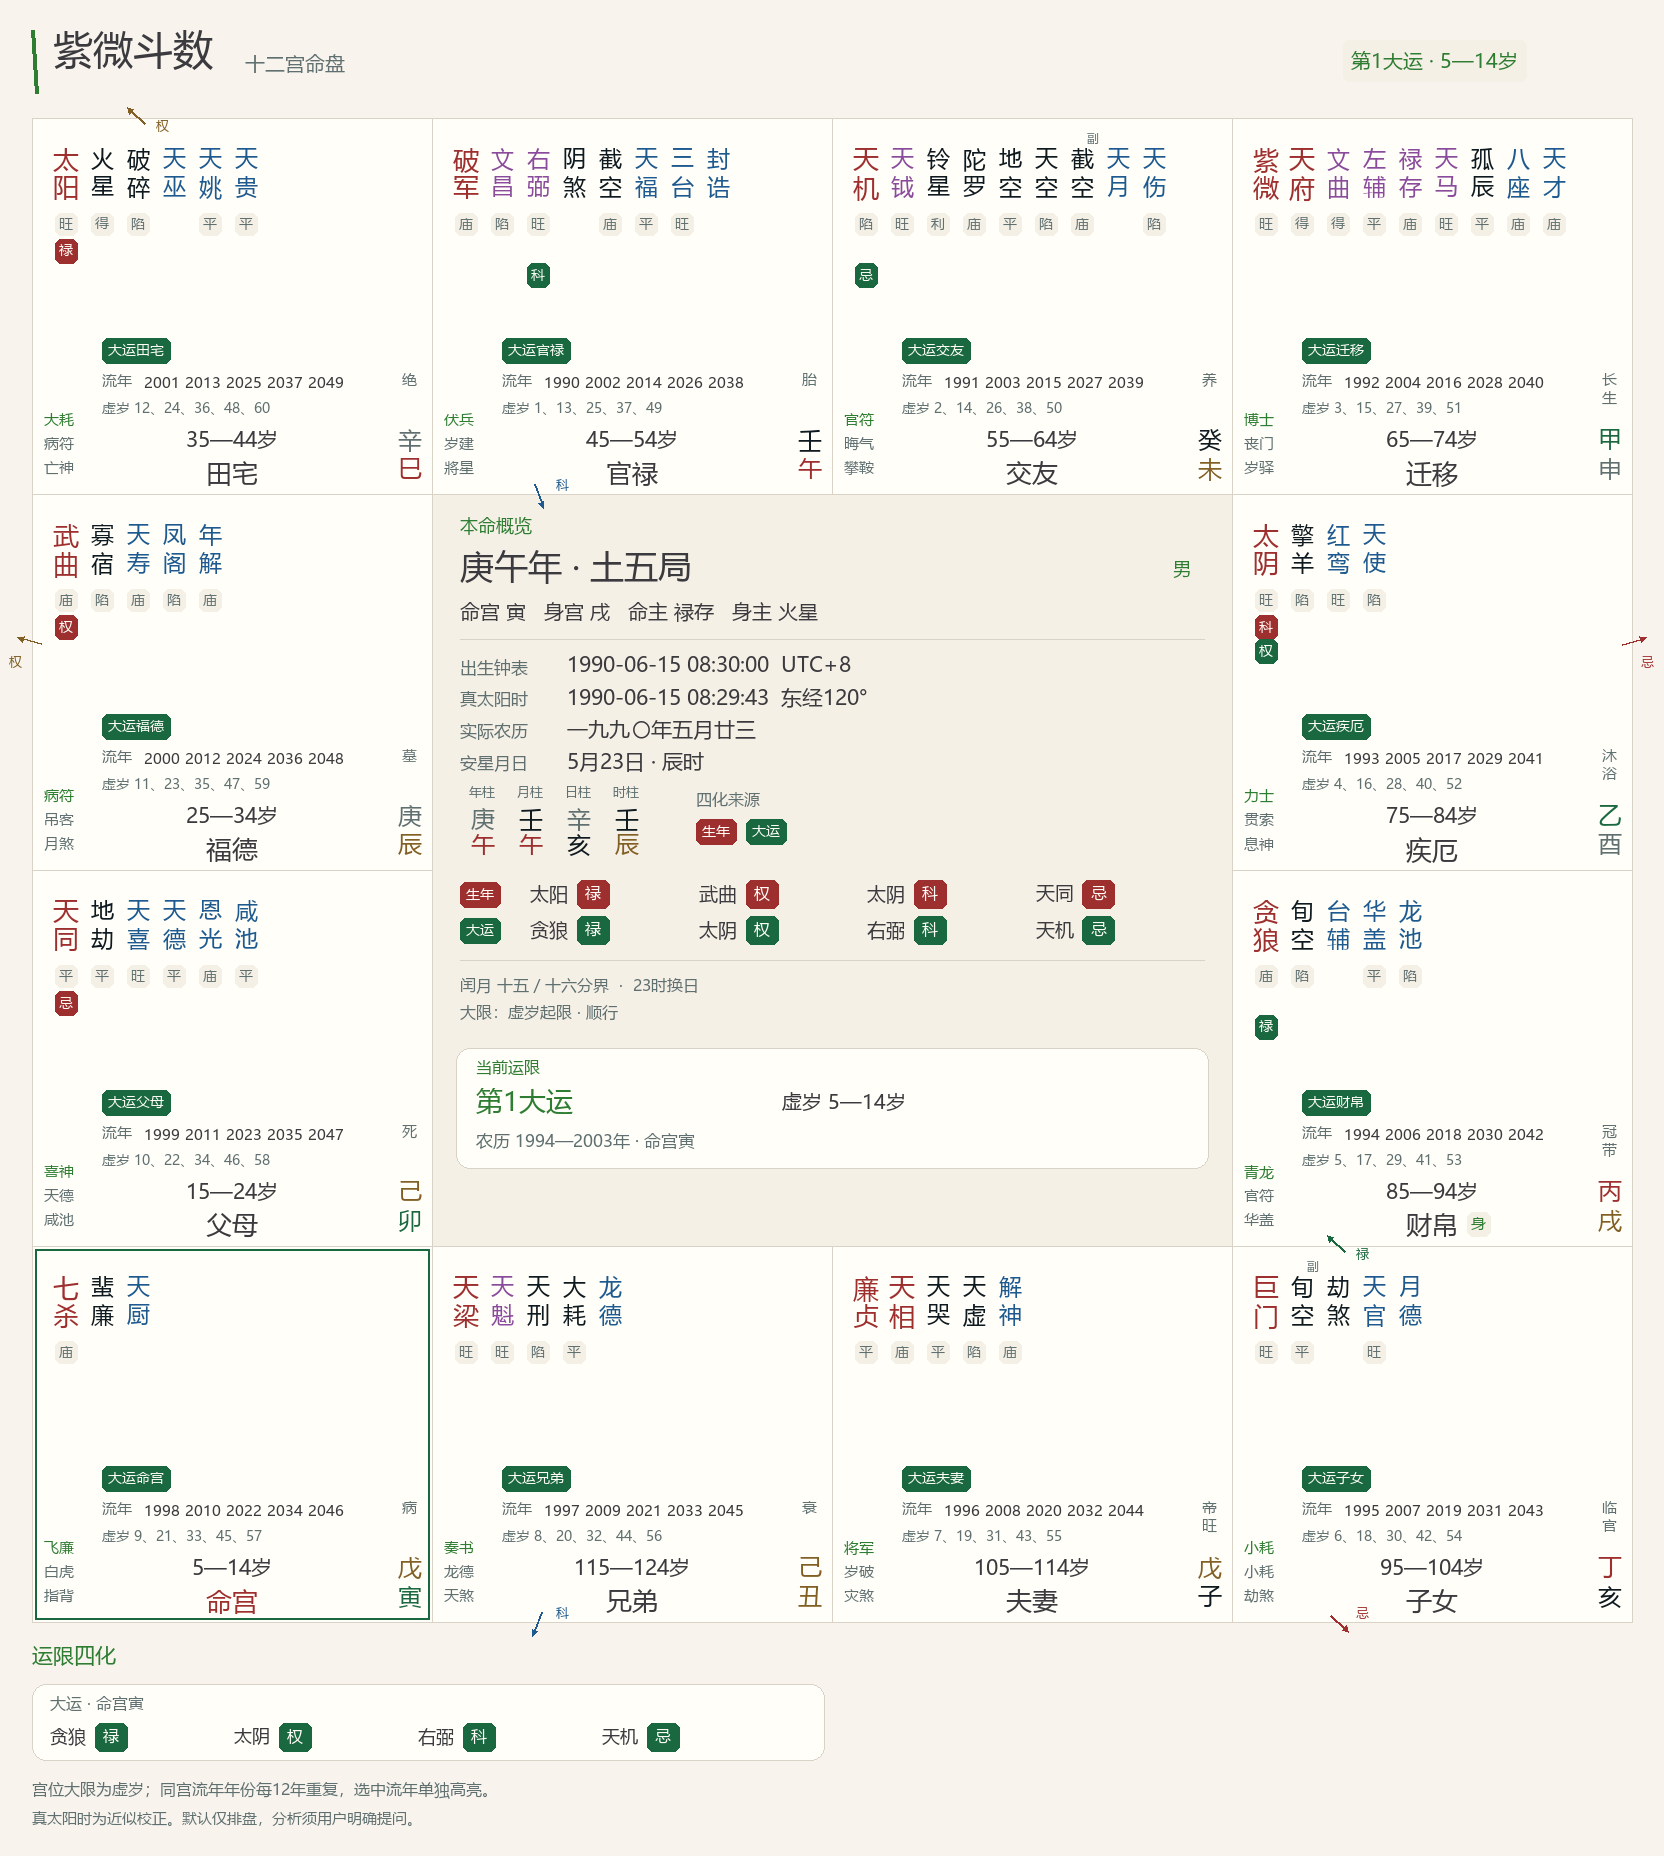
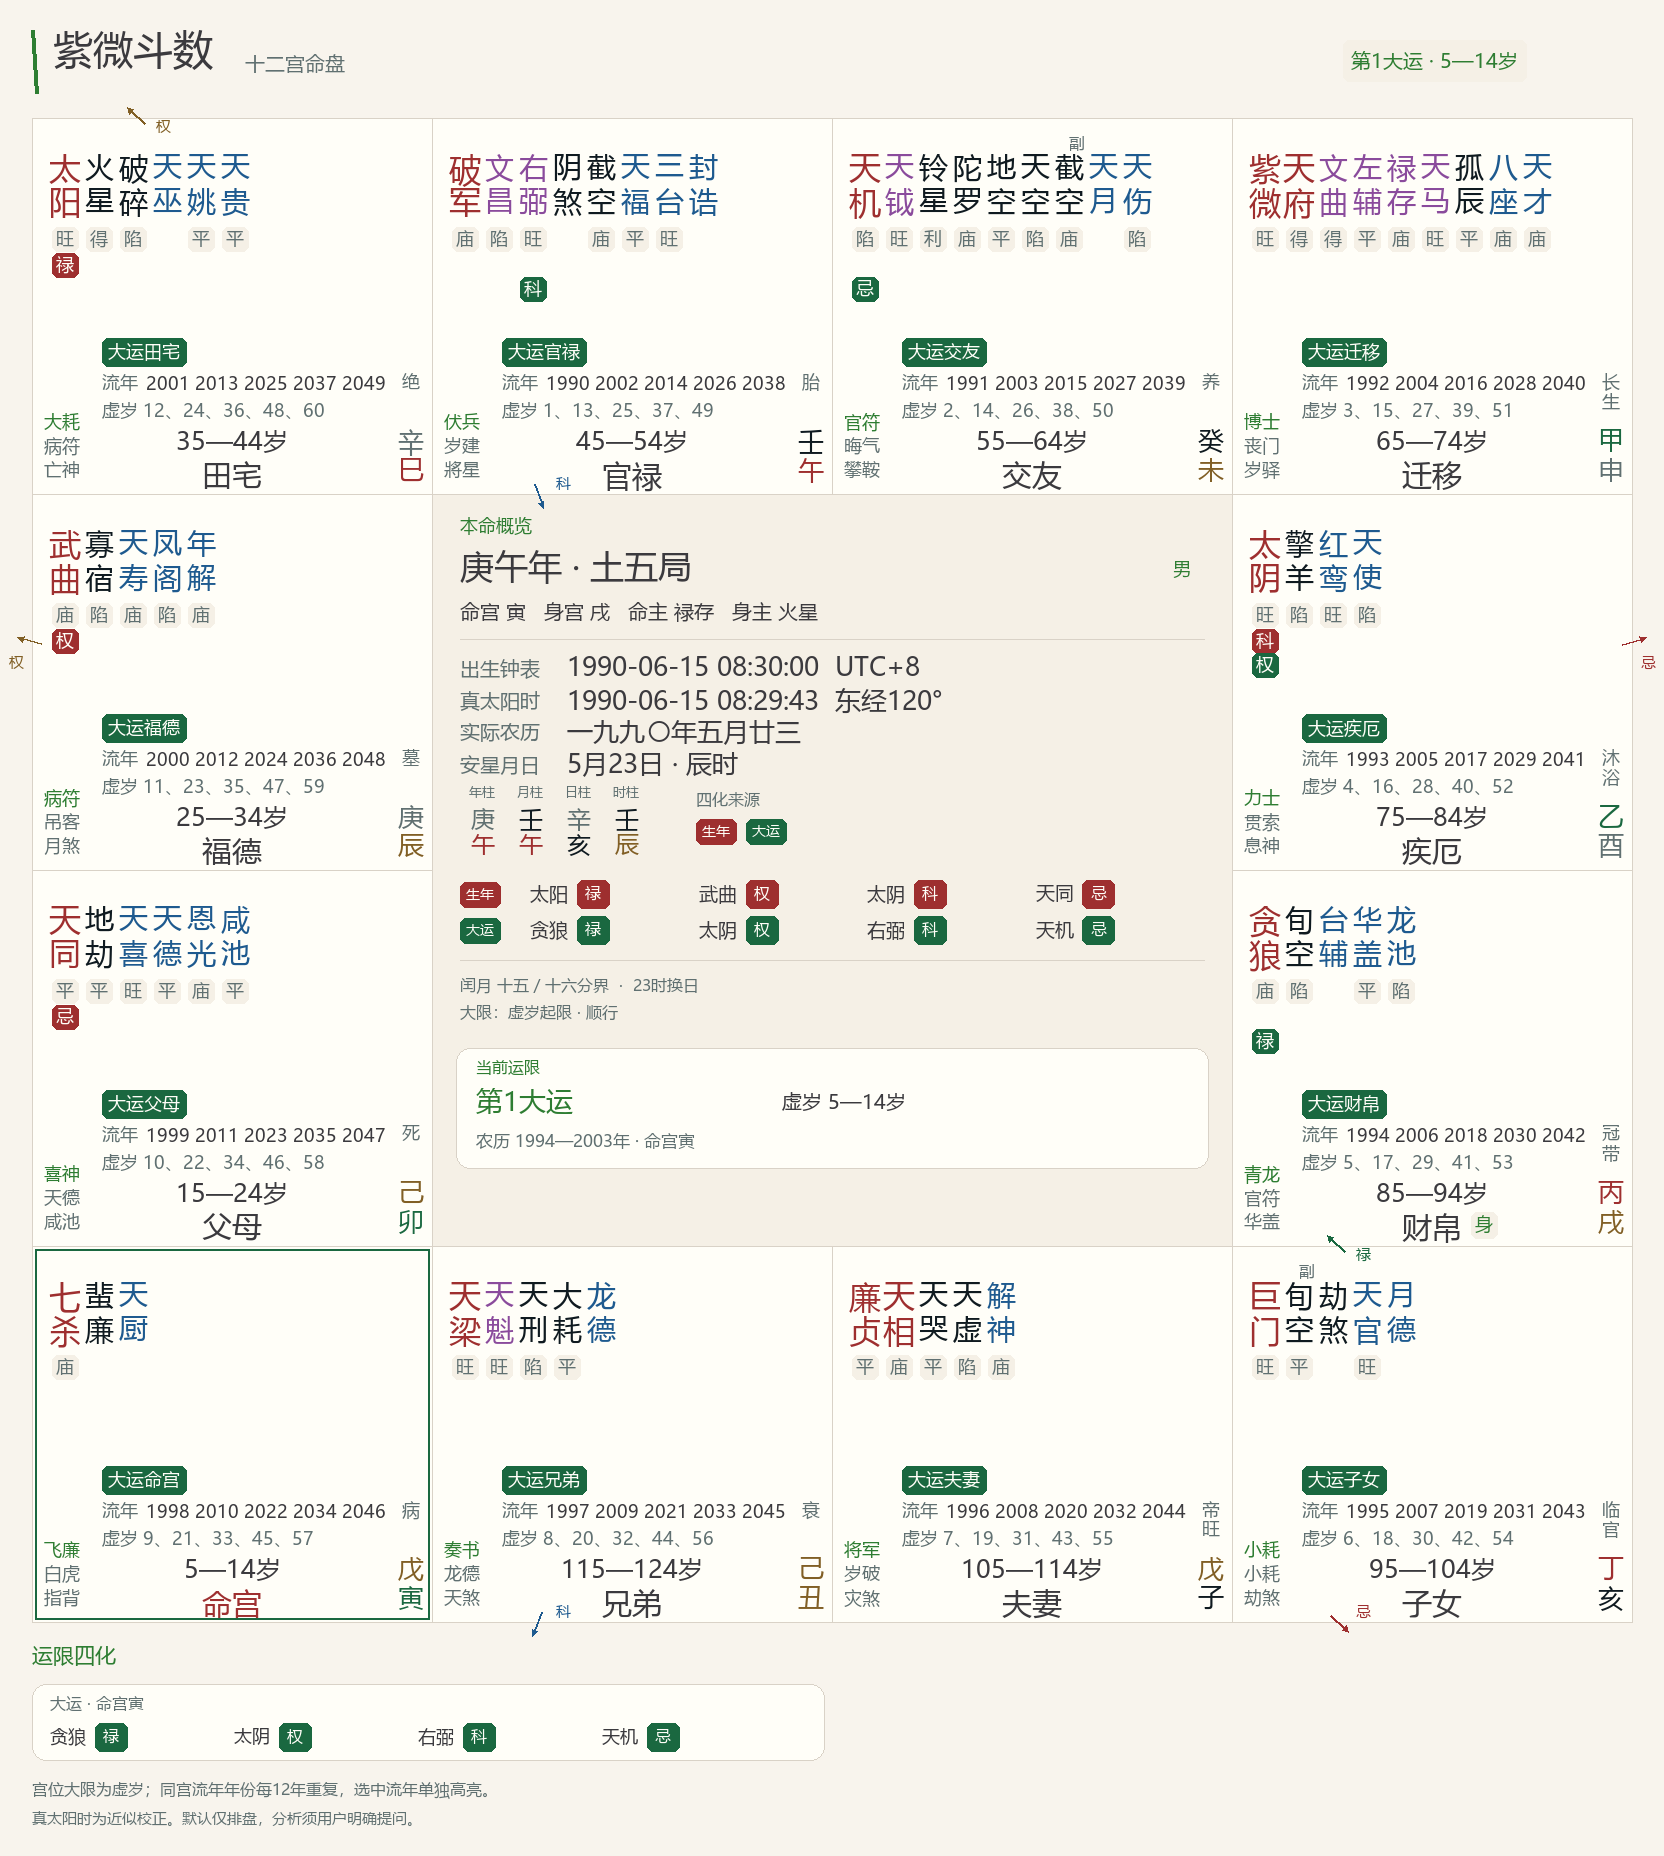
style: 放大紫微排盘字体并收紧星列间距
按确认预览放大星曜、中宫资料及十二宫辅助文字，调整星列与自化标记间距，保留字体字重、宫格尺寸与计算规则，并同步说明及四张虚构演示预览。

验证：Ruff 格式与检查通过，pytest 757 项通过；核对日间、夜间、本命、大运和密集盘，12 组文本边界审计及顶部副标记避让用例通过。

diff --git a/modern_renderer.py b/modern_renderer.py
@@ -70,7 +70,7 @@ def self_hua_arrow_layout(stars, branch, x, y, height):
                     x + _horizontal_arrow_slot(index, len(marks)),
                     y if side == "top" else y + height,
                 )
-                label = (anchor[0] + 18, y + 2 if side == "top" else y + height - 15)
+                label = (anchor[0] + 18, y + 2 if side == "top" else y + height - 17)
             else:
                 anchor = (
                     x if side == "left" else x + CELL_WIDTH,
@@ -276,35 +276,35 @@ class Painter:
 
 def _vertical_star(painter, star, x, y, color, step):
     major = star["group"] == "major"
-    name_size = min(26 if major else 23, int(step) - 5)
+    name_size = min(32 if major else 29, int(step) - 2)
     for index, character in enumerate(star["name"]):
         painter.text(
             character,
             x + (step - name_size) / 2,
-            y + index * 28,
+            y + index * 34,
             name_size,
             color,
         )
     if star["secondary"]:
-        painter.text("副", x + step - 13, y - 15, 12, painter.palette.muted)
+        painter.text("副", x + step - 17, y - 18, 16, painter.palette.muted)
     if star["brightness"]:
-        width = painter.font(14).getlength(star["brightness"]) + 8
+        width = painter.font(18).getlength(star["brightness"]) + 8
         painter.pill(
             star["brightness"],
             x + (step - width) / 2,
-            y + 65,
-            size=14,
-            height=22,
+            y + 73,
+            size=18,
+            height=24,
             padding=8,
         )
-    size = 14
+    size = 18
     for mark in star["marks"]:
         color, fill = painter.palette.layer_style(mark["source"])
         width = painter.font(size).getlength(mark["label"]) + 8
         painter.pill(
             mark["label"],
             x + (step - width) / 2,
-            y + 91 + mark["row"] * 24,
+            y + 99 + mark["row"] * 24,
             color,
             fill,
             size=size,
@@ -323,13 +323,13 @@ def _draw_palace(painter, item, chart, x, y, height):
     banks = math.ceil(len(stars) / 12)
     for bank in range(banks):
         row = stars[bank * 12 : (bank + 1) * 12]
-        step = min(36, (CELL_WIDTH - 40) / len(row))
+        step = min(34, (CELL_WIDTH - 40) / len(row))
         for col, (star, color) in enumerate(row):
             _vertical_star(
                 painter,
                 star,
                 x + 16 + col * step,
-                y + 30 + bank * 190,
+                y + 36 + bank * 190,
                 color,
                 step,
             )
@@ -347,14 +347,14 @@ def _draw_palace(painter, item, chart, x, y, height):
                     y + height - 156,
                     foreground,
                     fill,
-                    size=14,
-                    height=25,
+                    size=18,
+                    height=28,
                     padding=12,
                 )
                 + 8
             )
-    painter.text("流年", x + 70, y + height - 120, 15, painter.palette.muted)
-    year_x = x + 110
+    painter.text("流年", x + 70, y + height - 120, 18, painter.palette.muted)
+    year_x = x + 112
     year_foreground, year_fill = painter.palette.layer_style("流年")
     for year in item["annual_years"]:
         active = bool(chart["flow"] and chart["flow"]["year"] == year)
@@ -365,8 +365,8 @@ def _draw_palace(painter, item, chart, x, y, height):
                 y + height - 124,
                 year_foreground if active else painter.palette.ink,
                 year_fill if active else painter.palette.paper,
-                size=15,
-                height=25,
+                size=18,
+                height=27,
                 padding=4,
             )
             + 1
@@ -375,7 +375,7 @@ def _draw_palace(painter, item, chart, x, y, height):
         "虚岁 " + "、".join(map(str, item["annual_ages"])),
         x + 70,
         y + height - 92,
-        14,
+        18,
         painter.palette.muted,
         CELL_WIDTH - 123,
     )
@@ -383,9 +383,9 @@ def _draw_palace(painter, item, chart, x, y, height):
     age = f"{d['age_start']}—{d['age_end']}岁"
     painter.text(
         age,
-        x + (CELL_WIDTH - painter.font(21).getlength(age)) / 2,
+        x + (CELL_WIDTH - painter.font(25).getlength(age)) / 2,
         y + height - 64,
-        21,
+        25,
         painter.palette.ink,
     )
     name_color = (
@@ -395,17 +395,17 @@ def _draw_palace(painter, item, chart, x, y, height):
         if selected
         else painter.palette.ink
     )
-    px = x + (CELL_WIDTH - painter.font(26).getlength(palace["name"])) / 2
-    painter.text(palace["name"], px, y + height - 33, 26, name_color)
+    px = x + (CELL_WIDTH - painter.font(30).getlength(palace["name"])) / 2
+    painter.text(palace["name"], px, y + height - 33, 30, name_color)
     if palace["body"]:
         painter.pill(
             "身",
-            px + painter.font(26).getlength(palace["name"]) + 9,
+            px + painter.font(30).getlength(palace["name"]) + 9,
             y + height - 34,
             painter.palette.accent,
             painter.palette.center,
-            size=15,
-            height=24,
+            size=18,
+            height=26,
             padding=8,
         )
     sequences = palace["sequences"]
@@ -414,29 +414,29 @@ def _draw_palace(painter, item, chart, x, y, height):
             sequences[key],
             x + 12,
             y + height - 81 + index * 24,
-            15,
+            18,
             painter.palette.accent if index == 0 else painter.palette.muted,
         )
     for index, character in enumerate(sequences["长生"]):
         painter.text(
             character,
             x + CELL_WIDTH - 30,
-            y + height - 121 + index * 18,
-            15,
+            y + height - 121 + index * 20,
+            18,
             painter.palette.muted,
         )
     painter.text(
         palace["stem_name"],
         x + CELL_WIDTH - 34,
         y + height - 65,
-        24,
+        26,
         painter.palette.element_color(palace["stem_name"]),
     )
     painter.text(
         palace["branch_name"],
         x + CELL_WIDTH - 34,
         y + height - 36,
-        24,
+        26,
         painter.palette.element_color(palace["branch_name"]),
     )
     if selected or item["decade_selected"] or natal_life:
@@ -543,8 +543,8 @@ def _draw_center(painter, chart, x, y, width, height):
         ),
     ]
     for index, (label, value) in enumerate(fields):
-        painter.text(label, x + 28, y + 165 + index * 32, 17, painter.palette.muted)
-        painter.text(value, x + 135, y + 162 + index * 32, 21, width=width - 163)
+        painter.text(label, x + 28, y + 165 + index * 32, 20, painter.palette.muted)
+        painter.text(value, x + 135, y + 162 + index * 32, 26, width=width - 163)
     _draw_compact_pillars(painter, n["pillars"], x + 28, y + 292)
     profile_rules = RuleProfile(**profile)
     flow = chart["flow"]
@@ -746,7 +746,7 @@ def render_chart(chart, font_path, theme="day"):
                 ):
                     color, _ = painter.palette.hua_color(arrow["hua"])
                     painter.arrow(arrow["start"], arrow["end"], color)
-                    painter.text(arrow["hua"], *arrow["label_position"], 13, color)
+                    painter.text(arrow["hua"], *arrow["label_position"], 15, color)
     if layers:
         painter.text("运限四化", MARGIN, footer_y, 21, painter.palette.accent)
         for i, (label, layer) in enumerate(layers):
